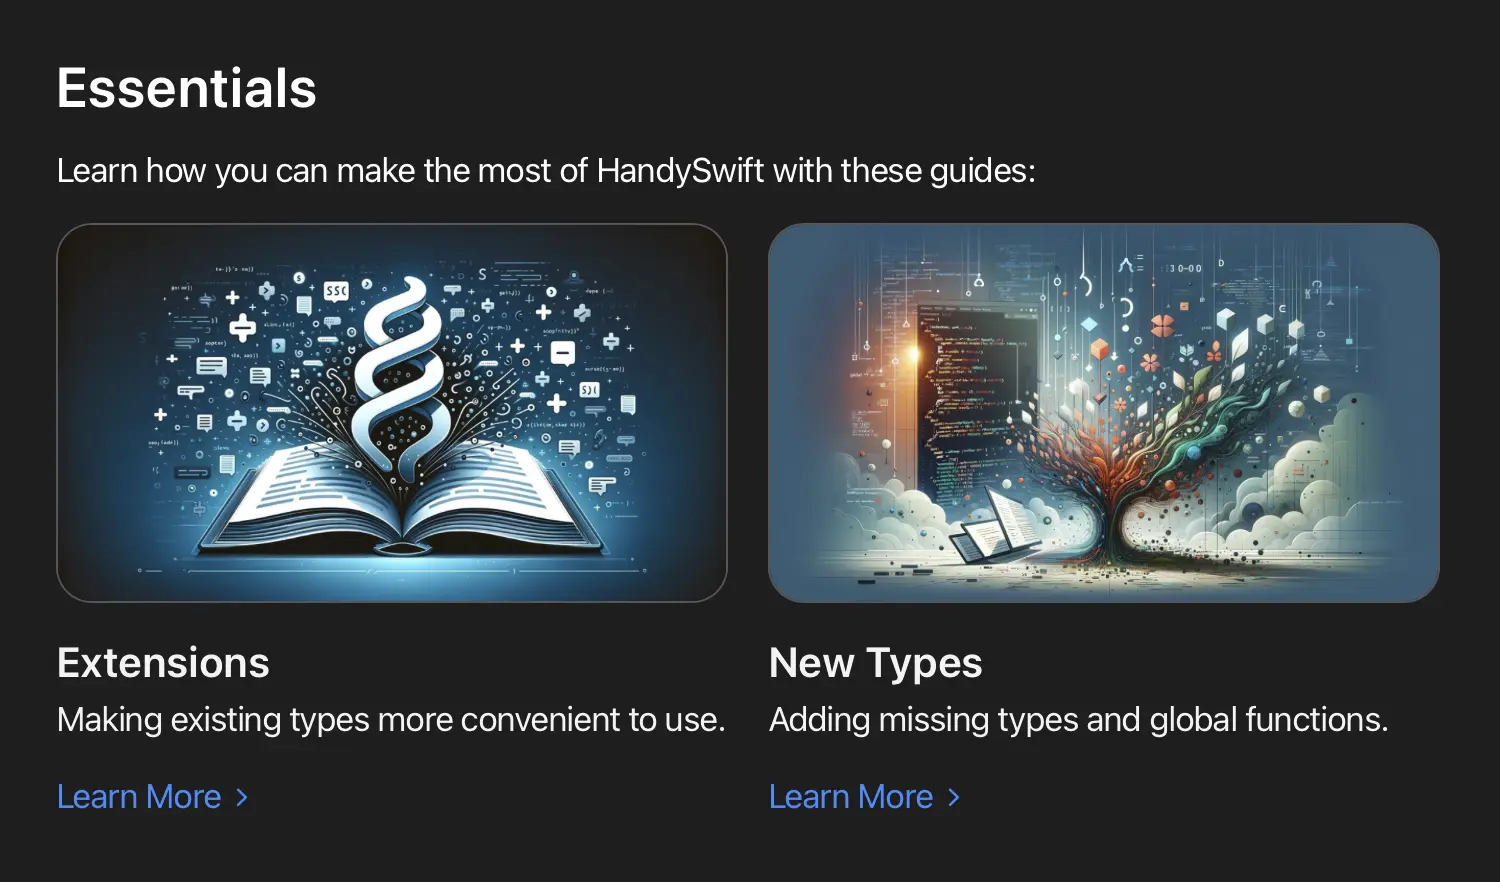
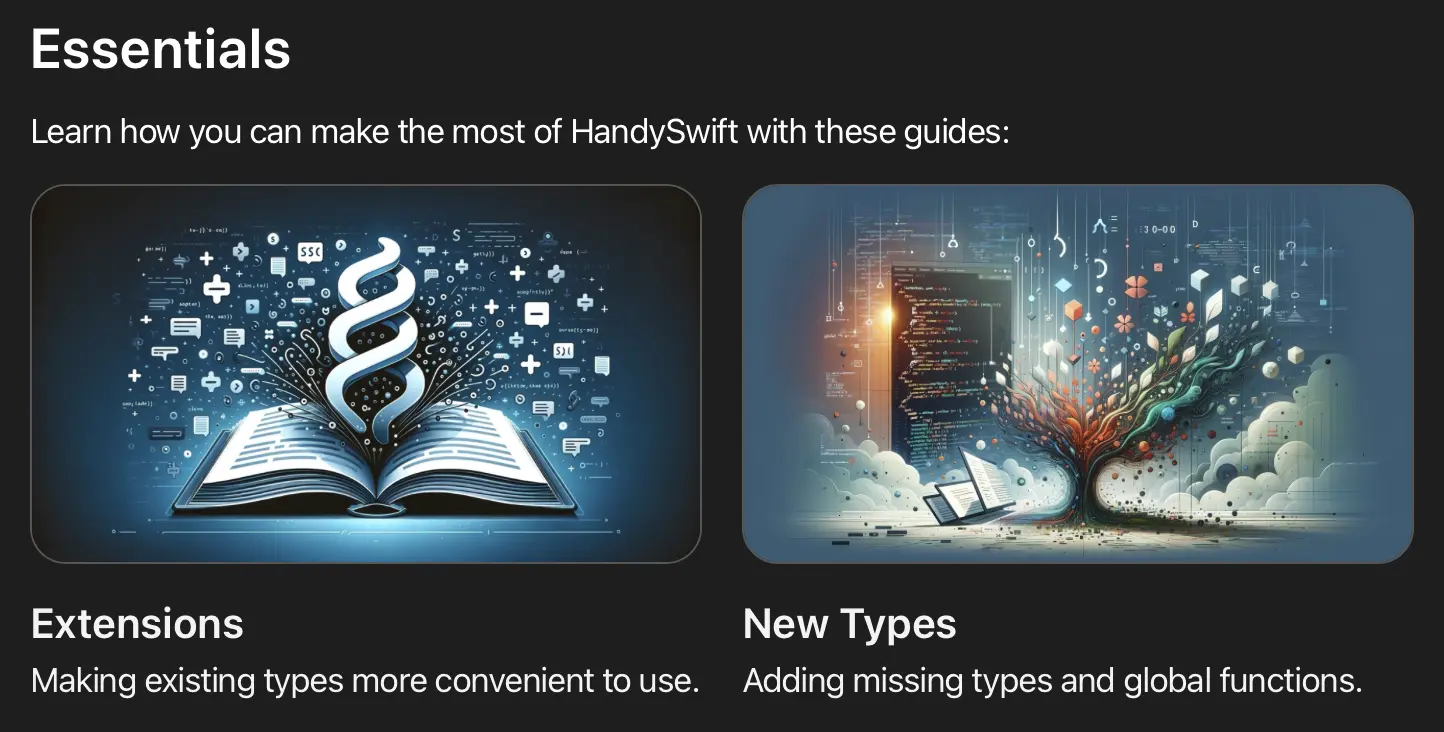
Update Documentation image and Link text in README

diff --git a/README.md b/README.md
@@ -13,11 +13,11 @@ Checkout [HandySwiftUI](https://github.com/FlineDev/HandySwitUI) for handy UI fe
 
 Learn how you can make the most of HandySwift by reading the guides inside the documentation:
 
+[📖 Open HandySwift Documentation](https://swiftpackageindex.com/FlineDev/HandySwift/main/documentation/handyswift)
+
 <a href="https://swiftpackageindex.com/FlineDev/HandySwift/main/documentation/handyswift">
   <img src="https://raw.githubusercontent.com/FlineDev/HandySwift/main/Images/Documentation.webp" />
 </a>
-
-[HandySwift Documentation](https://swiftpackageindex.com/FlineDev/HandySwift/main/documentation/handyswift)
 
 
 ## Showcase
